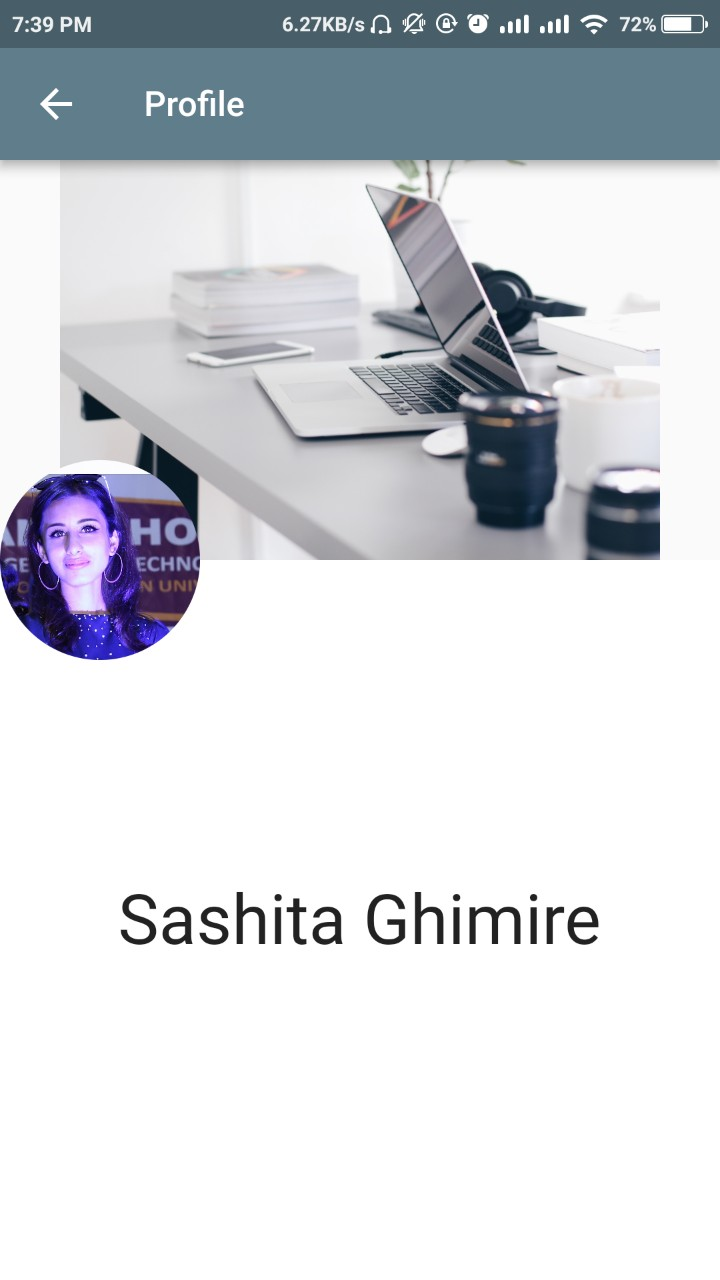
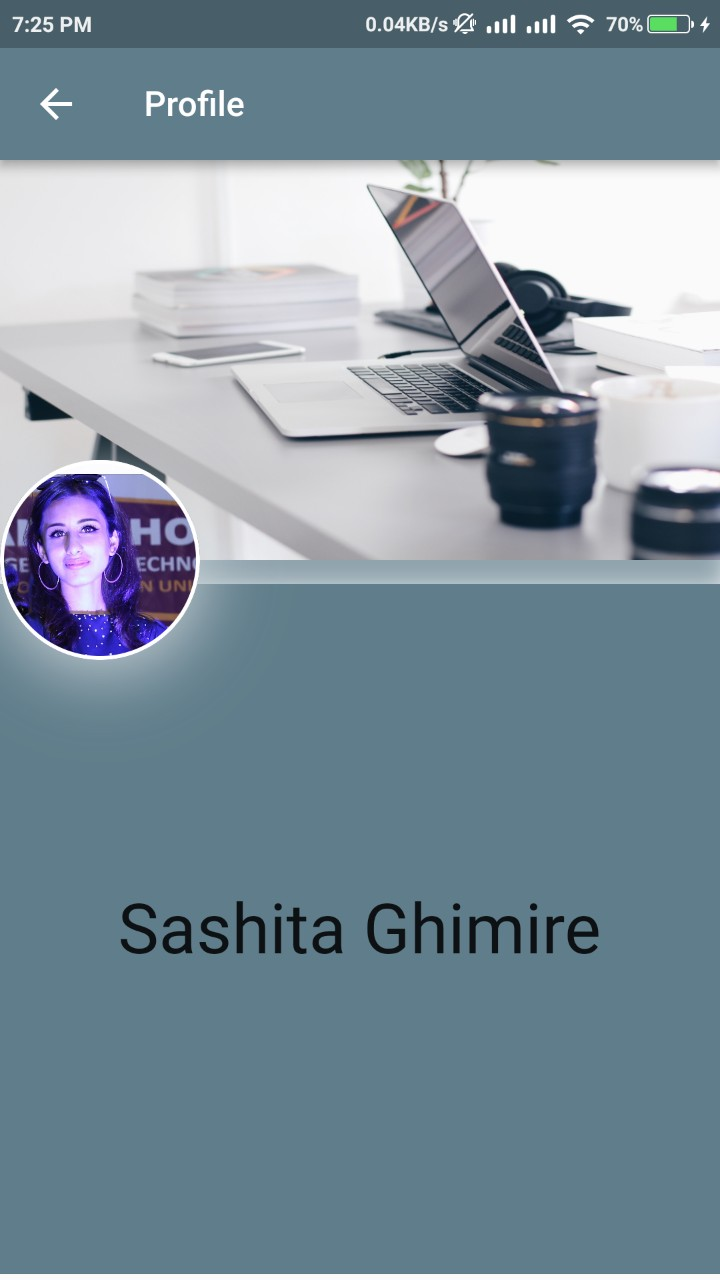
updated profile

diff --git a/lib/Profile.dart b/lib/Profile.dart
@@ -14,23 +14,42 @@ import 'package:flutter/material.dart';
                 Container(
                   height: 200.01,
                   width:400,
+                  decoration:BoxDecoration(
+                  image:DecorationImage(
                   
-                  child: Center(
-                    child: Image.asset("assets/profile_back.jpg"),
-                  ),
-                ),
-                Expanded(
-                  child: Container(
-                    color: Colors.white,
-                    child: Center(
-                      child: Text
-                      ('Sashita Ghimire',style:TextStyle(fontSize:40)),
-                      
-                    ),
-                  ),
+                  image:AssetImage("assets/profile_back.jpg"),
+
+                 fit:BoxFit.fill),
+                 boxShadow:<BoxShadow>[
+                  BoxShadow(
+                   color:Colors.blueGrey[300],
+                   offset:Offset(4.0,15.0),
+                   blurRadius:10.0
+                   ),
+                 ]
+                 
+                  
                 )
-              ],
+                
+                ),
+                SizedBox(height:12.0,),
+                Container(
+               height:345,
+               decoration:BoxDecoration(
+                 color:Colors.blueGrey,                
+
+               ),
+               
+             child: Center(child: Text("Sashita Ghimire",style:TextStyle(fontSize:40),),
+             
+             ),
+                ),
+              ]
             ),
+        
+        
+        
+            
             // Profile image
             Positioned(
               top: 150.0, 
@@ -39,14 +58,30 @@ import 'package:flutter/material.dart';
               child: Container(
                 height: 100.0,
                 width: 100.0,
+               
+                
                 decoration: BoxDecoration(
-                  shape: BoxShape.circle,
-                  image: DecorationImage(image:AssetImage("assets/sashi.jpg"),)
+                  borderRadius:BorderRadius.circular(50.0),
+                  border:Border.all(
+                    width: 2.0,
+                    color: Colors.white,
+                  ),
+                  image: DecorationImage(image:AssetImage("assets/sashi.jpg"),),
+                  boxShadow:<BoxShadow>[
+                   BoxShadow(
+                   color:Colors.blueGrey[100],
+                   offset:Offset(1.0,5.0),
+                   blurRadius:30.0
+                   ),
+                 ]
                 ),
-              ),
+              
+            ),
             )
-          ],
+        ]
         ),
       );
+      
+      
     }
   }
